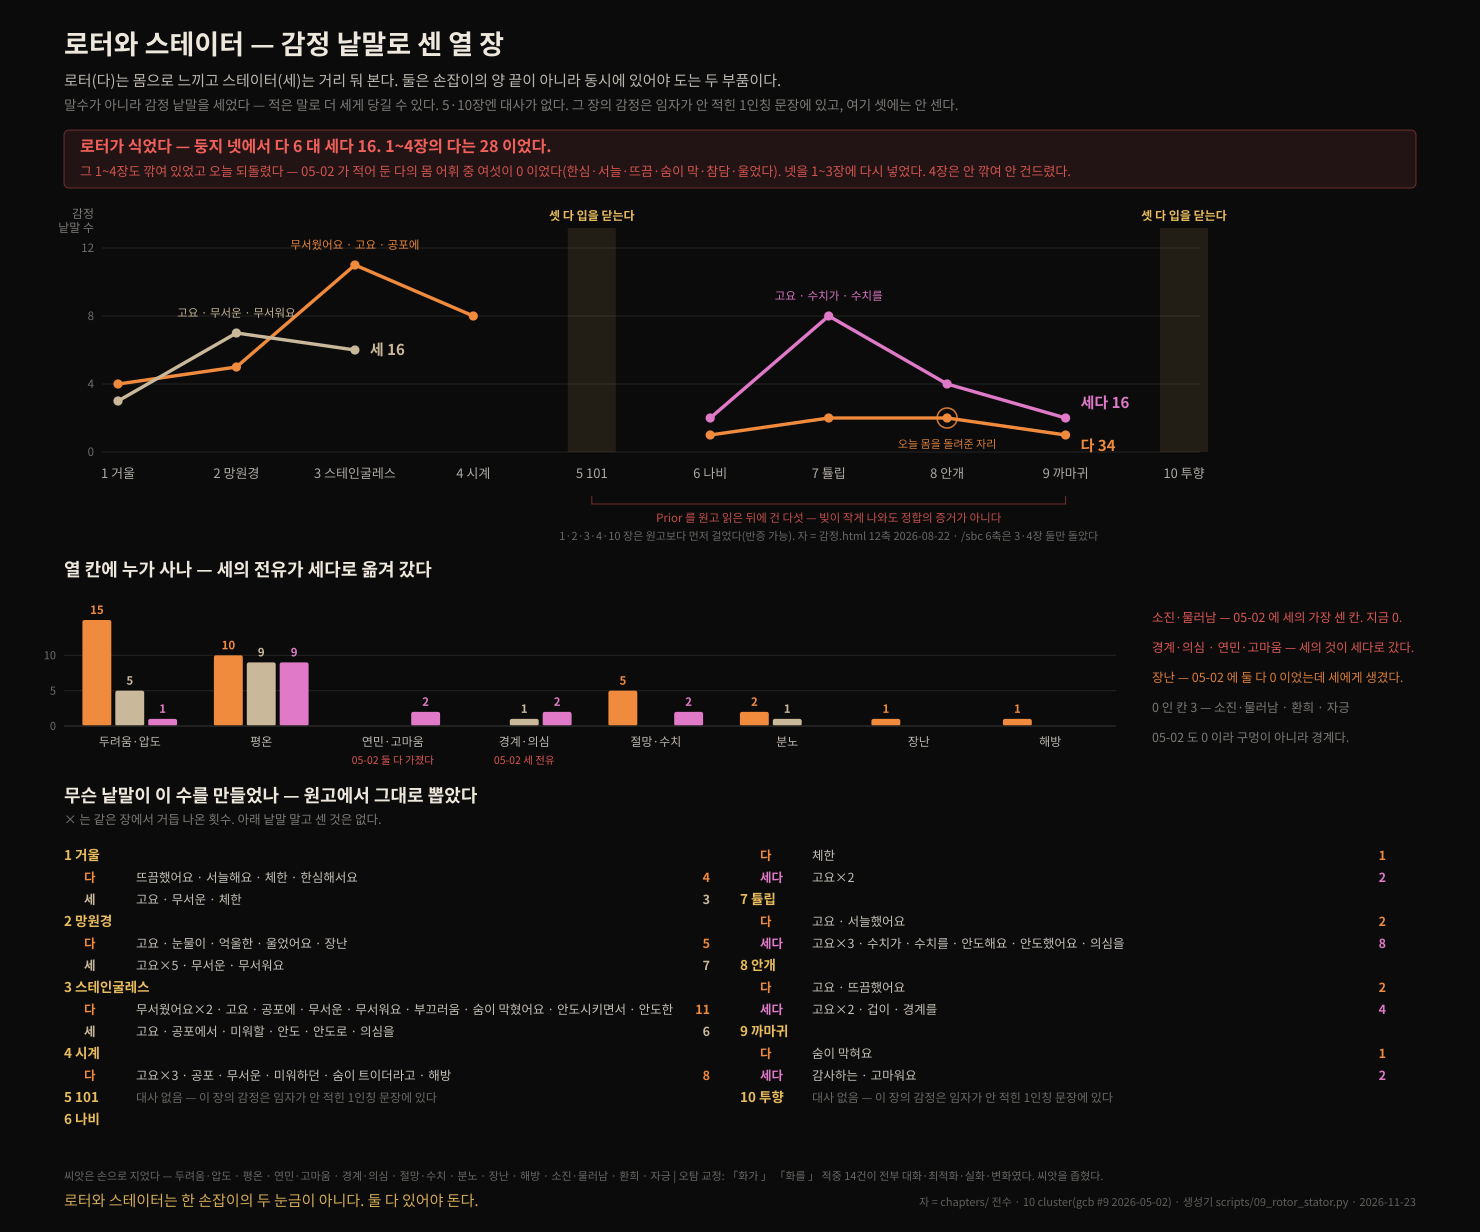
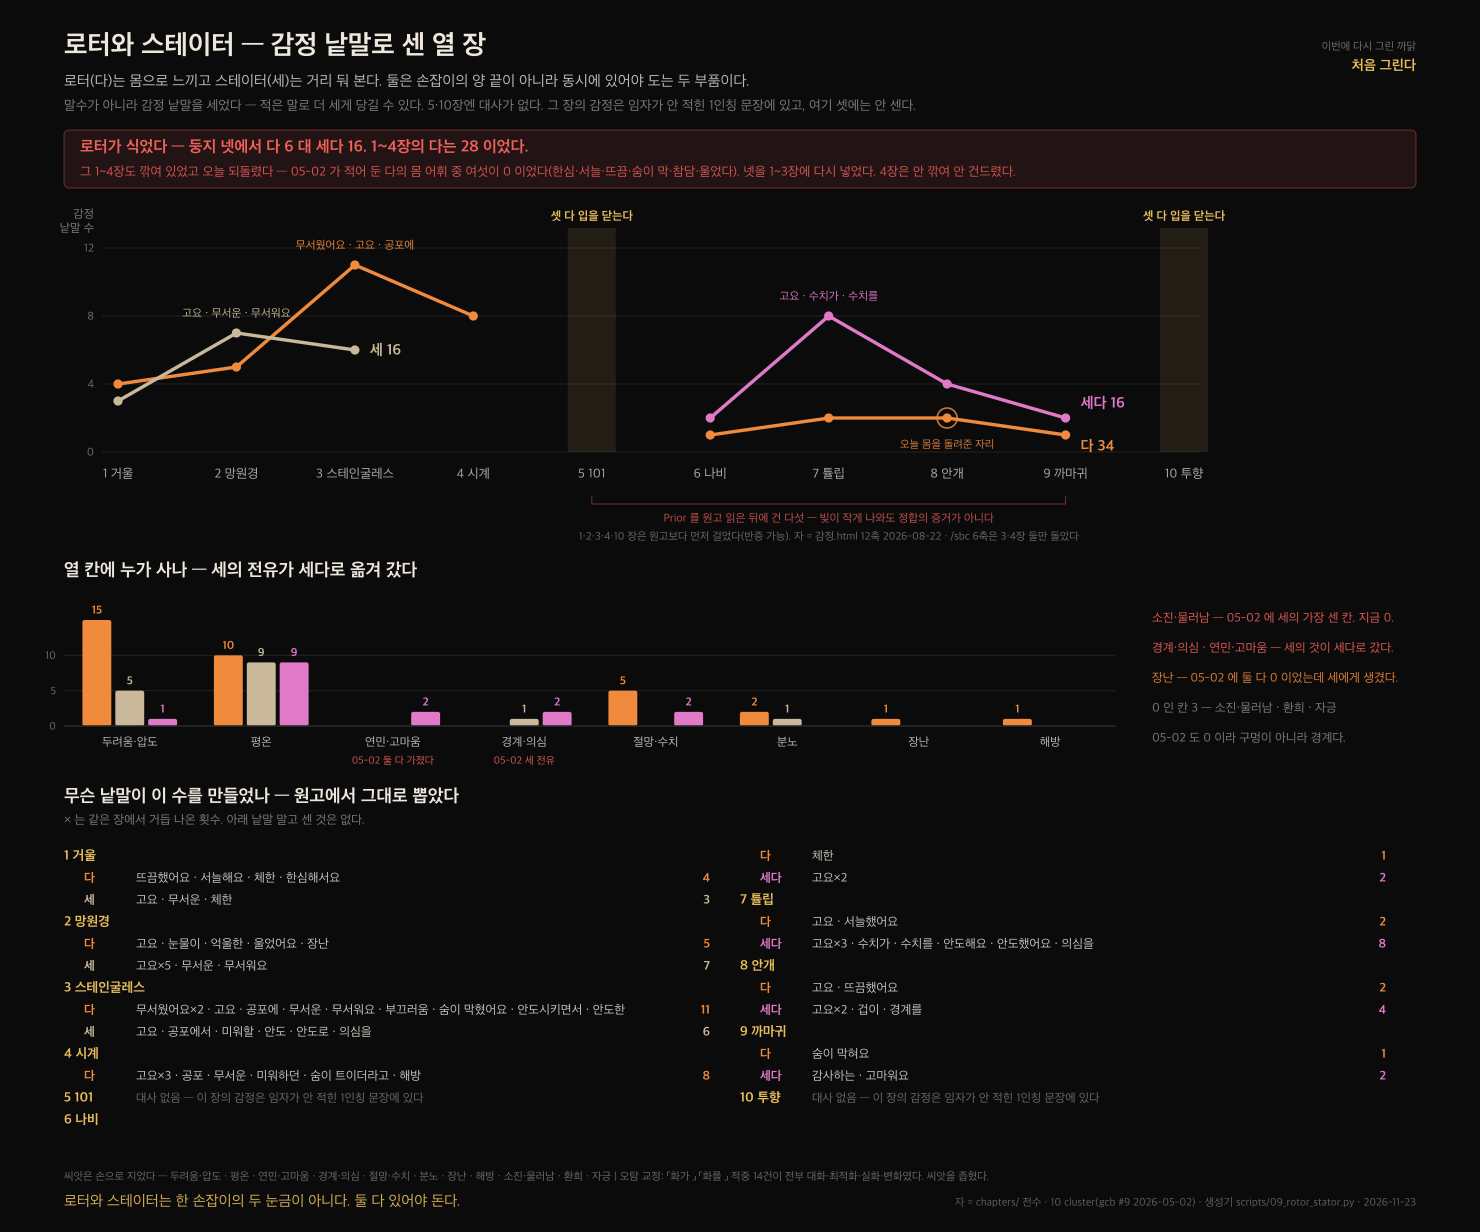
edit: 🍇 로터·스테이터는 감정이 바뀔 때만 다시 그린다
전에는 돌 때마다 그렸다. 바닥글에 그린 날짜가 찍히므로 뜻이 안 바뀌어도
바이트가 바뀌어 날마다 자동 커밋이 났다(문제 1), 그래서 전후 차이가 안 보였다(문제 2).

생성기가 감정 장부(09_rotor_stator_장부.tsv)를 견주어, 눈에 보이는 넷 중 하나라도
움직였을 때만 다시 그린다 — 칸이 서나 · 장마다 1위가 누구인가 · 인물의 꼭대기 묶음 ·
판에 오른 묶음. 수가 15에서 16으로 가는 것은 눈에 안 보이므로 안 센다.
움직였으면 그 까닭 한 줄이 그림 오른쪽 위와 커밋 제목에 같이 적힌다.

diff --git a/scripts/09_rotor_stator.py b/scripts/09_rotor_stator.py
@@ -34,6 +34,7 @@ ROOT = os.path.dirname(HERE)
 SRC = os.path.join(ROOT, "chapters")
 OUT_SVG = os.path.join(HERE, "09_rotor_stator.svg")
 PUB_PNG = os.path.join(HERE, "09_rotor_stator.png")
+LEDGER  = os.path.join(HERE, "09_rotor_stator_장부.tsv")
 DREW = os.environ.get("DREW") or __import__("datetime").date.today().isoformat()
 
 BG, INK, GRID, HI = "#0B0B0C", "#EDE7DC", "#242422", "#E8BC5C"
@@ -109,7 +110,59 @@ def measure():
     return per, prof, ev
 
 
-def build(per, prof, ev):
+def signature(per, prof):
+    """판에서 눈에 보이는 사실만 적는다 — 이 넷이 그대로면 그림도 그대로다.
+
+    수가 15 에서 16 으로 가는 것은 눈에 안 보인다. 그래서 안 센다.
+    보이는 것은 넷뿐이다 — 칸이 서나 · 장마다 누가 1위인가 ·
+    인물마다 어느 묶음이 꼭대기인가 · 어느 묶음이 판에 올라와 있나.
+    """
+    def top(pairs):
+        hi = max(pairs, key=lambda kv: kv[0])
+        return hi[1] if hi[0] else "—"
+    L = []
+    for ch, _ in CHS:
+        L.append("칸\t%s\t%s" % (ch, "\t".join("O" if per[(ch, w)] else "-" for w, _ in CAST)))
+    for ch, _ in CHS:
+        L.append("1위\t%s\t%s" % (ch, top([(per[(ch, w)], w) for w, _ in CAST])))
+    for w, _ in CAST:
+        L.append("꼭대기\t%s\t%s" % (w, top([(prof.get((w, n), 0), n) for n, _s, _x in CLUSTERS])))
+    L.append("선 묶음\t" + " · ".join(n for n, _s, _x in CLUSTERS
+                                   if any(prof.get((w, n), 0) for w, _ in CAST)))
+    return L
+
+
+def story(old, new):
+    """장부 두 벌을 견주어 「유의미한 감정변화」 한 줄을 짓는다."""
+    if old is None:
+        return "처음 그린다"
+    if len(old) != len(new):
+        return "자가 바뀌었다 — 묶음이나 장의 수가 달라졌다"
+    said = []
+    for a, b in zip(old, new):
+        if a == b:
+            continue
+        pa, pb = a.split("\t"), b.split("\t")
+        if pb[0] == "칸":
+            for (w, _), x, y in zip(CAST, pa[2:], pb[2:]):
+                if x != y:
+                    said.append("%s장 %s의 감정이 %s" % (pb[1], w,
+                                "선다" if y == "O" else "사라진다"))
+        elif pb[0] == "1위":
+            said.append("%s장 1위가 %s에서 %s로" % (pb[1], pa[2], pb[2]))
+        elif pb[0] == "꼭대기":
+            said.append("%s의 꼭대기가 %s에서 %s로" % (pb[1], pa[2], pb[2]))
+        else:
+            o, n = set(pa[1].split(" · ")), set(pb[1].split(" · "))
+            for x in sorted(n - o): said.append("묶음 「%s」가 판에 올라온다" % x)
+            for x in sorted(o - n): said.append("묶음 「%s」가 판에서 내려간다" % x)
+    if not said:
+        return "변화 없음"
+    head = " · ".join(said[:2])
+    return head + ("" if len(said) <= 2 else " 외 %d건" % (len(said) - 2))
+
+
+def build(per, prof, ev, why=""):
     # ── 셋째 표의 줄 수를 먼저 세어 캔버스 높이를 정한다 (넘침 방지)
     blocks = []
     for ch, name in CHS:
@@ -121,6 +174,8 @@ def build(per, prof, ev):
     o = []   # 높이는 끝에서 정해 머리에 끼운다
 
     o.append(t(LX, 54, "로터와 스테이터 — 감정 낱말로 센 열 장", 27, INK, bold=True))
+    o.append(t(W - LX, 50, "이번에 다시 그린 까닭", 11, INK, anc="end", op=.45))
+    o.append(t(W - LX, 70, why or "처음 그린다", 14, HI, anc="end", bold=True))
     o.append(t(LX, 86, "로터(다)는 몸으로 느끼고 스테이터(세)는 거리 둬 본다. 둘은 손잡이의 양 끝이 아니라 "
                        "동시에 있어야 도는 두 부품이다.", 15, INK, op=.78))
     o.append(t(LX, 110, "말수가 아니라 감정 낱말을 세었다 — 적은 말로 더 세게 당길 수 있다. "
@@ -295,8 +350,28 @@ def build(per, prof, ev):
 
 if __name__ == "__main__":
     per, prof, ev = measure()
-    open(OUT_SVG, "w", encoding="utf-8").write(build(per, prof, ev))
+    new = signature(per, prof)
+    old = None
+    if os.path.exists(LEDGER):
+        old = [l for l in N(open(LEDGER, encoding="utf-8").read()).splitlines()
+               if l and not l.startswith("#")]
+    drawn = os.path.exists(PUB_PNG) and os.path.exists(OUT_SVG)
+    if old == new and drawn and not os.environ.get("FORCE"):
+        # 날짜가 바닥글에 찍히므로, 다시 그리면 뜻이 안 바뀌어도 바이트가 바뀐다.
+        # 그래서 「안 그리는 것」이 곧 「안 미는 것」이다.
+        print("감정 변화 없음 — 다시 안 그린다")
+        print("REASON=")
+        raise SystemExit(0)
+    why = story(old, new)
+    if why == "변화 없음":
+        why = "손으로 돌렸다 — 감정은 그대로다"
+    open(OUT_SVG, "w", encoding="utf-8").write(build(per, prof, ev, why))
     subprocess.run(["rsvg-convert", "-w", str(W), OUT_SVG, "-o", PUB_PNG], check=True)
+    open(LEDGER, "w", encoding="utf-8").write(
+        "# 로터·스테이터 감정 장부 — 생성기가 쓴다. 손으로 고치지 마라.\n"
+        "# 이 넷이 그대로면 다시 안 그린다(09_rotor_stator.py signature).\n"
+        f"# {DREW} — {why}\n" + "\n".join(new) + "\n")
+    print(f"REASON={why}")
     print(f"PNG {PUB_PNG} ({os.path.getsize(PUB_PNG)/1024:.0f} kB)")
     print("장   " + "".join(f"{w:>6s}" for w, _ in CAST))
     for ch, name in CHS:
